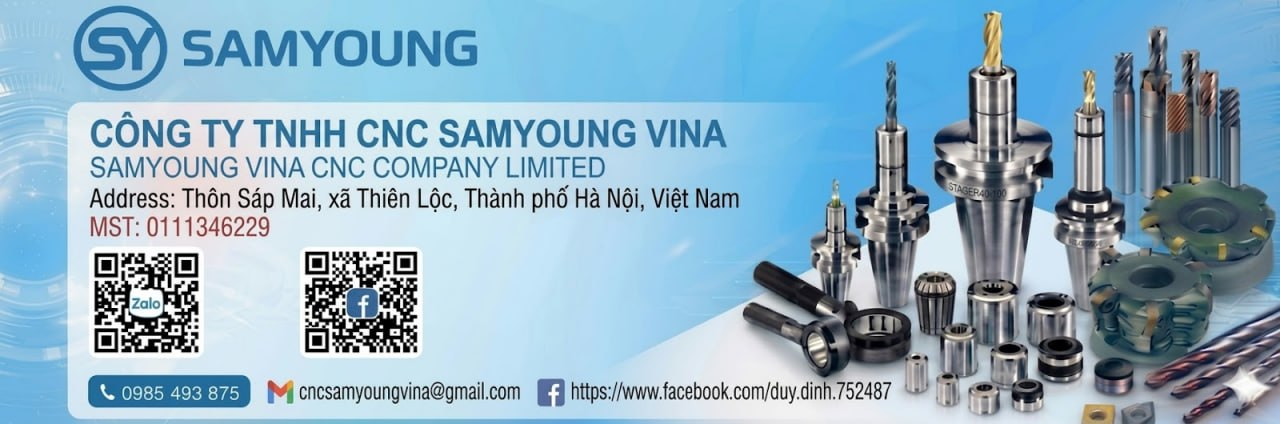
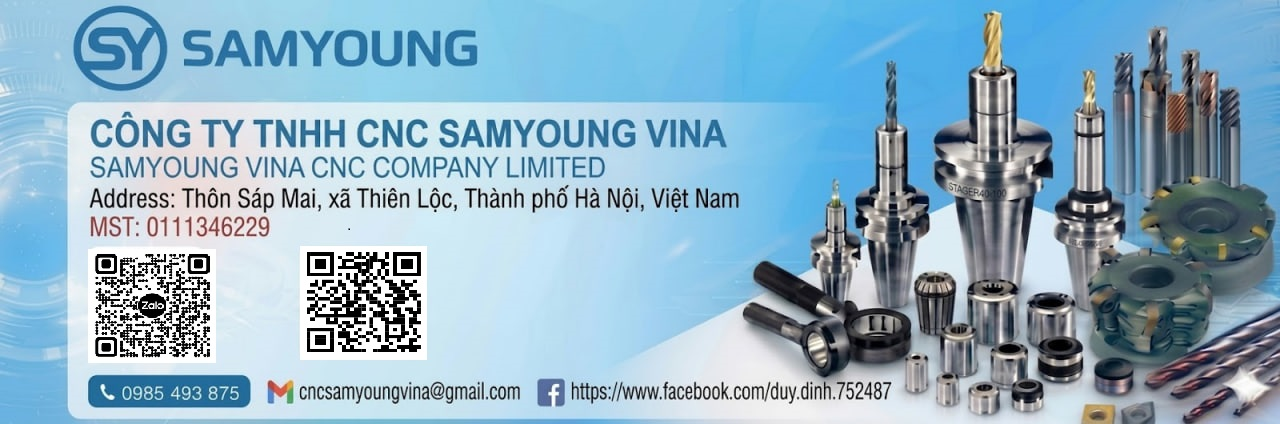
uodate

Changed region(s): [[0.2188, 0.5825, 0.3438, 0.8585], [0.0625, 0.5825, 0.1875, 0.8585]]

diff --git a/src/components/product/ProductHighlightContact.vue b/src/components/product/ProductHighlightContact.vue
@@ -1,6 +1,6 @@
 <script setup lang="ts">
-import { FACEBOOK_LINKS } from '../../data/defaultProductHighlight'
-import { COMPANY_PHONES } from '../../data/companyPhones'
+import { PRODUCT_HIGHLIGHT_FACEBOOK_URL } from '../../data/defaultProductHighlight'
+import { COMPANY_PHONE_PRIMARY } from '../../data/companyPhones'
 
 const email = 'cncsamyoungvina@gmail.com'
 </script>
@@ -18,45 +18,37 @@ const email = 'cncsamyoungvina@gmail.com'
       </li>
       <li class="product-highlight-contact__phones">
         <span>Hotline:</span>
-        <template v-for="(p, i) in COMPANY_PHONES" :key="p.tel">
-          <a :href="`tel:${p.tel}`" class="product-highlight-contact__link">{{ p.display }}</a>
-          <span v-if="i < COMPANY_PHONES.length - 1" class="product-highlight-contact__sep" aria-hidden="true">
-            —
-          </span>
-        </template>
+        <a :href="`tel:${COMPANY_PHONE_PRIMARY.tel}`" class="product-highlight-contact__link">{{
+          COMPANY_PHONE_PRIMARY.display
+        }}</a>
       </li>
       <li>
         Email:
         <a :href="`mailto:${email}`" class="product-highlight-contact__link">{{ email }}</a>
       </li>
-      <li class="product-highlight-contact__facebook">
-        <span>Facebook:</span>
-        <span class="product-highlight-contact__fb-wrap">
-          <template v-for="(href, i) in FACEBOOK_LINKS" :key="href">
-            <a
-              :href="href"
-              class="product-highlight-contact__link"
-              target="_blank"
-              rel="noopener noreferrer"
-            >
-              {{ href }}
-            </a>
-            <span v-if="i < FACEBOOK_LINKS.length - 1" class="product-highlight-contact__sep" aria-hidden="true">
-              —
-            </span>
-          </template>
-        </span>
-      </li>
-      <li class="product-highlight-contact__phones">
-        <span>Zalo:</span>
-        <template v-for="(p, i) in COMPANY_PHONES" :key="p.zalo">
-          <a :href="p.zalo" class="product-highlight-contact__link" target="_blank" rel="noopener noreferrer">
-            {{ p.display }}
+      <li class="product-highlight-contact__social-only">
+        <div class="footer-social product-highlight-contact__social-inline">
+          <a
+            :href="PRODUCT_HIGHLIGHT_FACEBOOK_URL"
+            class="footer-social-btn footer-social-fb"
+            target="_blank"
+            rel="noopener noreferrer"
+            aria-label="Facebook Samyoung Vina Cnc"
+            title="Facebook"
+          >
+            <span class="footer-social-icon-fb">f</span>
           </a>
-          <span v-if="i < COMPANY_PHONES.length - 1" class="product-highlight-contact__sep" aria-hidden="true">
-            —
-          </span>
-        </template>
+          <a
+            :href="COMPANY_PHONE_PRIMARY.zalo"
+            class="footer-social-btn footer-social-zalo"
+            target="_blank"
+            rel="noopener noreferrer"
+            aria-label="Zalo 098 5493875"
+            title="Zalo 098 5493875"
+          >
+            <span>Zalo</span>
+          </a>
+        </div>
       </li>
     </ul>
   </section>
@@ -107,16 +99,13 @@ const email = 'cncsamyoungvina@gmail.com'
   font-weight: 700;
 }
 
-.product-highlight-contact__facebook {
-  display: block;
+.product-highlight-contact__social-only {
+  margin-top: 0.35rem;
 }
 
-.product-highlight-contact__fb-wrap {
-  display: inline;
-}
-
-.product-highlight-contact__facebook .product-highlight-contact__link {
-  word-break: break-all;
+.product-highlight-contact__social-inline.footer-social {
+  margin-top: 0;
+  align-items: center;
 }
 
 .product-highlight-contact__sep {

diff --git a/src/components/layout/FloatingContact.vue b/src/components/layout/FloatingContact.vue
@@ -1,16 +1,14 @@
 <script setup lang="ts">
-import { COMPANY_PHONES } from '../../data/companyPhones'
+import { COMPANY_PHONE_PRIMARY } from '../../data/companyPhones'
+import { PRODUCT_HIGHLIGHT_FACEBOOK_URL } from '../../data/defaultProductHighlight'
 </script>
 
 <template>
   <div class="floating-contact" aria-hidden="true">
     <a
-      v-for="(p, i) in COMPANY_PHONES"
-      :key="`phone-${p.tel}`"
-      :href="`tel:${p.tel}`"
+      :href="`tel:${COMPANY_PHONE_PRIMARY.tel}`"
       class="float-icon float-phone"
-      :class="{ 'float-phone-second': i === 1 }"
-      :aria-label="`Gọi ${p.display}`"
+      :aria-label="`Gọi ${COMPANY_PHONE_PRIMARY.display}`"
     >
       <svg viewBox="0 0 24 24" role="presentation" aria-hidden="true">
         <path
@@ -21,13 +19,10 @@ import { COMPANY_PHONES } from '../../data/companyPhones'
     </a>
 
     <a
-      v-for="(p, i) in COMPANY_PHONES"
-      :key="`zalo-${p.zalo}`"
-      :href="p.zalo"
+      :href="COMPANY_PHONE_PRIMARY.zalo"
       class="float-icon float-zalo"
-      :class="{ 'float-zalo-second': i === 1 }"
-      :aria-label="`Zalo ${p.display}`"
-      :title="`Zalo ${p.display}`"
+      :aria-label="`Zalo ${COMPANY_PHONE_PRIMARY.display}`"
+      :title="`Zalo ${COMPANY_PHONE_PRIMARY.display}`"
       target="_blank"
       rel="noopener noreferrer"
     >
@@ -35,24 +30,9 @@ import { COMPANY_PHONES } from '../../data/companyPhones'
     </a>
 
     <a
-      href="https://www.facebook.com/share/1EexnLvRh5/?mibextid=wwXIfr"
+      :href="PRODUCT_HIGHLIGHT_FACEBOOK_URL"
       class="float-icon float-messenger"
-      aria-label="Facebook 1"
-      target="_blank"
-      rel="noopener noreferrer"
-    >
-      <svg viewBox="0 0 24 24" role="presentation" aria-hidden="true">
-        <path
-          d="M12 2C6.48 2 2 6.15 2 11.26c0 2.9 1.44 5.49 3.69 7.18V22l3.3-1.82c.88.24 1.82.37 2.81.37 5.52 0 10-4.15 10-9.26S17.52 2 12 2Zm1.06 12.43-2.55-2.72-4.97 2.72 5.46-5.79 2.49 2.72 5.03-2.72-5.46 5.79Z"
-          fill="currentColor"
-        />
-      </svg>
-    </a>
-
-    <a
-      href="https://www.facebook.com/share/1LGj4X8hWB/?mibextid=wwXIfr"
-      class="float-icon float-messenger float-messenger-second"
-      aria-label="Facebook 2"
+      aria-label="Facebook"
       target="_blank"
       rel="noopener noreferrer"
     >

diff --git a/src/data/defaultProductHighlight.ts b/src/data/defaultProductHighlight.ts
@@ -4,13 +4,11 @@
 export const DEFAULT_PRODUCT_FEATURE_LINES = [
   'Thông tin liên hệ : CÔNG TY TNHH CNC SAMYOUNG VINA',
   'Địa chỉ: Thôn Sáp Mai, Xã Thiên Lộc, Thành phố Hà Nội, Việt Nam',
-  'Hotline: 098 5493875 — 096 1054936',
+  'Hotline: 098 5493875',
   'Email: cncsamyoungvina@gmail.com',
-  'Facebook: https://www.facebook.com/share/1au7PQdY3C/ - https://www.facebook.com/share/185KfwhqYY/',
-  'Zalo: 098 5493875 — 096 1054936',
+  'Facebook: https://www.facebook.com/share/1au7PQdY3C/',
+  'Zalo: 098 5493875',
 ] as const
 
-export const FACEBOOK_LINKS = [
-  'https://www.facebook.com/share/1au7PQdY3C/',
-  'https://www.facebook.com/share/185KfwhqYY/',
-] as const
+/** Facebook hiển thị trong khối điểm nổi bật (một link). */
+export const PRODUCT_HIGHLIGHT_FACEBOOK_URL = 'https://www.facebook.com/share/1au7PQdY3C/' as const
